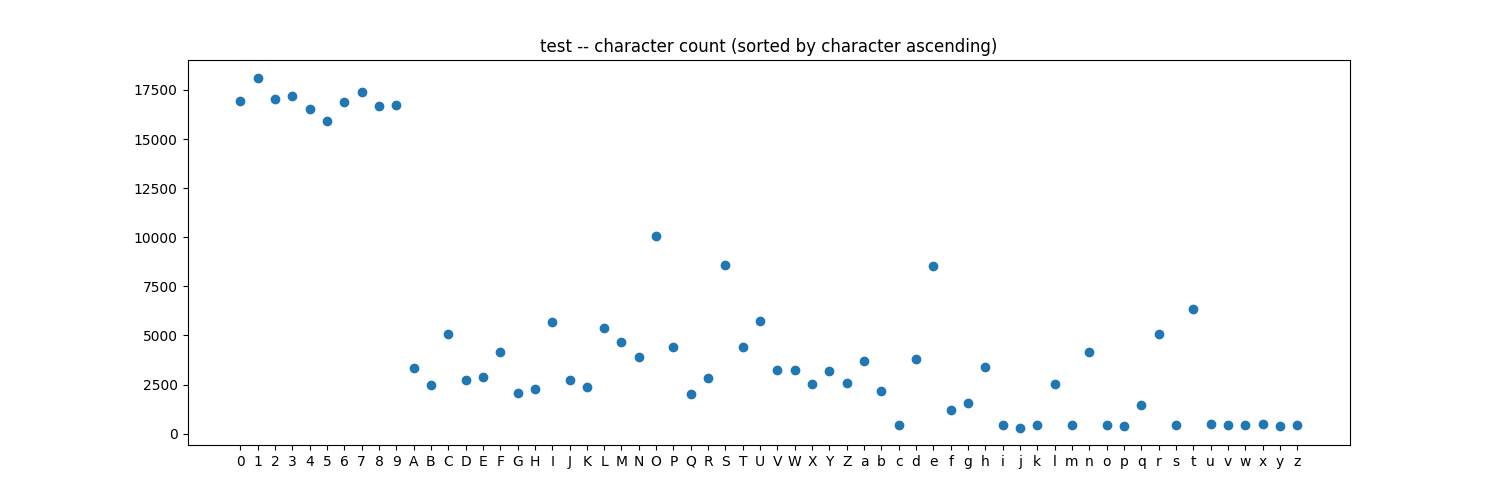
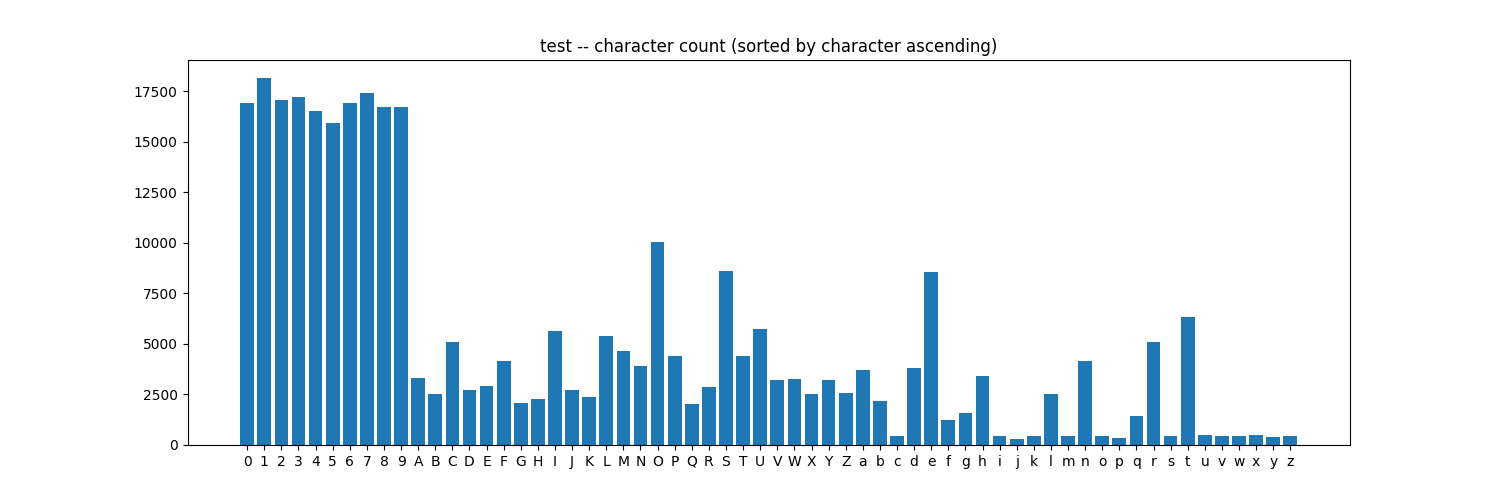
better stat, added simple train script

diff --git a/dev/train.py b/dev/train.py
@@ -1,0 +1,78 @@
+# %% libs
+import os
+import gzip
+import numpy as np
+import pandas as pd
+import time
+import cv2 as cv
+import random as rand
+import math
+import matplotlib.pyplot as plt
+
+from tensorflow.keras.models import Sequential
+from tensorflow.keras.layers import Input, Conv2D, MaxPooling2D, Flatten, Dropout, Dense
+from tensorflow.keras.utils import to_categorical
+
+from dataset import *
+
+# %% load set
+
+train_images, train_labels, train_mapping = dataset_load("digits", "train")
+test_images, test_labels, test_mapping = dataset_load("digits", "test")
+
+train_mapping_n = len(train_mapping)
+test_mapping_n = len(test_mapping)
+
+print(f'train images: {train_images.shape}')
+print(f'train labels: {train_labels.shape}')
+print(f'train mapping: {train_mapping_n}')
+
+print(f'test images: {test_images.shape}')
+print(f'test labels: {test_labels.shape}')
+print(f'test mapping: {test_mapping_n}')
+
+# %% preprocess set
+train_input = train_images / 255
+train_target = to_categorical(train_labels, train_mapping_n)
+
+val_input = test_images / 255
+val_target = to_categorical(test_labels, test_mapping_n)
+
+# %% create model
+model = Sequential()
+model.add(Input(shape=(28, 28, 1)))
+model.add(Conv2D(filters=16, kernel_size=(5,5), strides=(2,2), padding="valid", activation="relu", use_bias=True))
+model.add(MaxPooling2D(pool_size=(2,2)))
+model.add(Conv2D(filters=8, kernel_size=(3,3), strides=(1,1), padding="valid", activation="relu", use_bias=True))
+model.add(MaxPooling2D(pool_size=(2,2)))
+model.add(Flatten())
+model.add(Dropout(0.5))
+model.add(Dense(train_mapping_n, activation="softmax"))
+model.compile(loss="categorical_crossentropy", optimizer="adam", metrics=["categorical_accuracy"])
+model.summary()
+
+# %% training model params
+
+num_epochs = 3
+batch_size = 1000
+
+# %% train model
+
+cnn_results = model.fit(train_input, train_target, validation_data=(val_input, val_target), batch_size=batch_size, epochs=num_epochs, verbose=2)
+
+# %% plotting history
+
+plt.figure(figsize=(8, 6))
+plt.plot(range(1, num_epochs + 1), cnn_results.history["loss"], "o--", label="Training")
+plt.plot(range(1, num_epochs + 1), cnn_results.history["val_loss"], "o--", label="Validation")
+plt.ylim(0)
+plt.title("Performance of the neural network")
+plt.xticks(range(1, num_epochs + 1))
+plt.xlabel("Epoch")
+plt.ylabel("Loss")
+plt.legend(title="Phase")
+plt.show()
+
+
+
+# %%

diff --git a/dev/dataset_stat.py b/dev/dataset_stat.py
@@ -44,14 +44,14 @@ def counter_plot(df, title):
     plt.figure(figsize=(15,5))
     fulltitle1 = f"{title} -- character count (sorted by count descending)"
     plt.title(fulltitle1)
-    plt.scatter(df['character'], df['count'])
+    plt.bar(df['character'], df['count'])
     plt.savefig(fulltitle1 + ".png")
     plt.show()
     df2 = df.sort_values(by='character', ascending=True)
     plt.figure(figsize=(15,5))
     fulltitle2 = f"{title} -- character count (sorted by character ascending)"
     plt.title(fulltitle2)
-    plt.scatter(df2['character'], df2['count'])
+    plt.bar(df2['character'], df2['count'])
     plt.savefig(fulltitle2 + ".png")
     plt.show()
 
